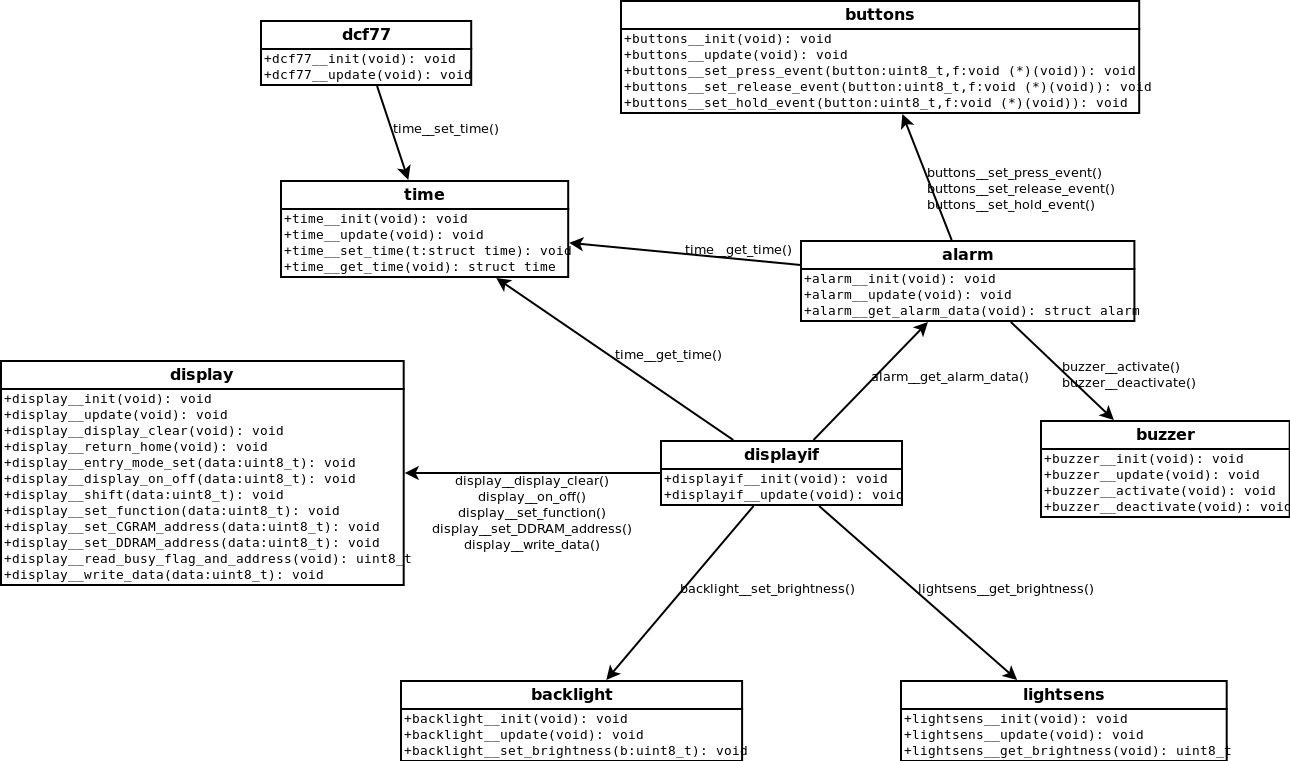
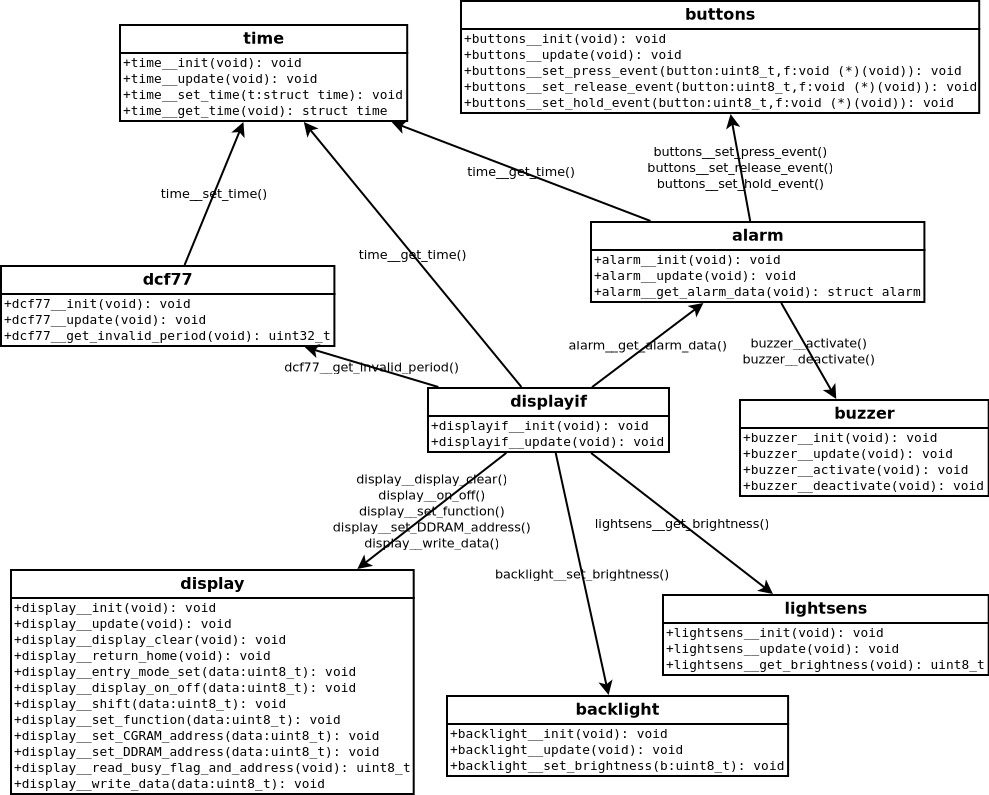
Improve error detection in DCF77 signal
Check range on all values
Check parity of date data
Check three consecutive minutes for changes and discard the data
if they differ in more than just the increment of the minute
Display "!" behind the time to indicate that time has not been set
by the dcf77 module for more than an hour

diff --git a/src/dcf77.c b/src/dcf77.c
@@ -27,13 +27,19 @@
 
 static uint8_t data[8];
 static uint8_t bit_count;
+static struct time time_buffer[3];
+static uint8_t time_index;
+static uint32_t invalid_period;
 
 static void process_data(void);
 static uint8_t check_even_parity(uint8_t i);
+static void check_time_buffer(void);
+static bool compare_time(struct time * time1, struct time * time2);
 
 void dcf77__init(void)
 {
     DDR(DCF77_PORT) &= ~(1 << DCF77_PIN);
+    invalid_period = UINT32_MAX;
 }
 
 void dcf77__update(void)
@@ -46,13 +52,15 @@ void dcf77__update(void)
 
     if (state_now != state_prev)
     {
-        if (state_now == 0 && cycle_counter > 6 && cycle_counter < 14)
+        if (state_now == 0 && bit_count < 64 &&
+            cycle_counter > 6 && cycle_counter < 14)
         {
             /* logical 0 */
             data[bit_count / 8] &= ~(1 << (bit_count % 8));
             bit_count++;
         }
-        if (state_now == 0 && cycle_counter > 16 && cycle_counter < 24)
+        if (state_now == 0 && bit_count < 64 &&
+            cycle_counter > 16 && cycle_counter < 24)
         {
             /* logical 1 */
             data[bit_count / 8] |= (1 << (bit_count % 8));
@@ -68,6 +76,16 @@ void dcf77__update(void)
         cycle_counter = 0;
         state_prev = state_now;
     }
+
+    if (invalid_period < UINT32_MAX)
+    {
+        invalid_period++;
+    }
+}
+
+uint32_t dcf77__get_invalid_period(void)
+{
+    return invalid_period;
 }
 
 static void process_data(void)
@@ -101,44 +119,109 @@ static void process_data(void)
         valid = false;
     }
     
-    uint8_t temp;
-    
-    temp = data[2] >> 5;
-    temp |= data[3] << 3;
-    if (check_even_parity(temp))
+    uint8_t minute;
+    minute = data[2] >> 5;
+    minute |= data[3] << 3;
+    if (!check_even_parity(minute))
     {
-        time.minute = (temp & 0x0F) + ((temp >> 4) & 0x07) * 10;
+        valid = false;
+    }
+    minute = (minute & 0x0F) + ((minute >> 4) & 0x07) * 10;
+    if (minute < 60)
+    {
+        time.minute = minute;
+    }
+    else
+    {
+        valid = false;
     }
 
-    temp = data[3] >> 5;
-    temp |= data[4] << 3;
-    temp &= 0x7F;
-    if (check_even_parity(temp))
+    uint8_t hour;
+    hour = data[3] >> 5;
+    hour |= data[4] << 3;
+    hour &= 0x7F;
+    if (!check_even_parity(hour))
     {
-        time.hour = (temp & 0x0F) + ((temp >> 4) & 0x03) * 10;
+        valid = false;
+    }
+    hour = (hour & 0x0F) + ((hour >> 4) & 0x03) * 10;
+    if (hour < 24)
+    {
+        time.hour = hour;
+    }
+    else
+    {
+        valid = false;
     }
 
-    temp = data[4] >> 4;
-    temp |= data[5] << 4;
-    temp &= 0x3F;
-    time.day_of_month = (temp & 0x0F) + (temp >> 4) * 10;
+    uint8_t day_of_month;
+    day_of_month = data[4] >> 4;
+    day_of_month |= data[5] << 4;
+    day_of_month &= 0x3F;
+    day_of_month = (day_of_month & 0x0F) + (day_of_month >> 4) * 10;
+    if (day_of_month <= 31)
+    {
+        time.day_of_month = day_of_month;
+    }
+    else
+    {
+        valid = false;
+    }
 
-    temp = data[5] >> 2;
-    temp &= 0x07;
-    time.day_of_week = temp;
+    uint8_t day_of_week;
+    day_of_week = data[5] >> 2;
+    day_of_week &= 0x07;
+    if (day_of_week != 0)
+    {
+        time.day_of_week = day_of_week;
+    }
+    else
+    {
+        valid = false;
+    }
 
-    temp = data[5] >> 5;
-    temp |= data[6] << 3;
-    temp &= 0x1F;
-    time.month = (temp & 0x0F) + (temp >> 4) * 10;
+    uint8_t month;
+    month = data[5] >> 5;
+    month |= data[6] << 3;
+    month &= 0x1F;
+    month = (month & 0x0F) + (month >> 4) * 10;
+    if (month != 0 && month <= 12)
+    {
+        time.month = month;
+    }
+    else
+    {
+        valid = false;
+    }
 
-    temp = data[6] >> 2;
-    temp |= data[7] << 6;
-    time.year = (temp & 0x0F) + (temp >> 4) * 10;
+    uint8_t year;
+    year = data[6] >> 2;
+    year |= data[7] << 6;
+    year = (year & 0x0F) + (year >> 4) * 10;
+    if (year < 100)
+    {
+        time.year = year;
+    }
+    else
+    {
+        valid = false;
+    }
+
+    uint8_t date_data;
+    date_data = data[4] & 0xF0;
+    date_data ^= data[5];
+    date_data ^= data[6];
+    date_data ^= data[7] & 0x07;
+    if (!check_even_parity(date_data))
+    {
+        valid = false;
+    }
     
     if (valid)
     {
-        time__set_time(time);
+        time_buffer[time_index] = time;
+        time_index = (time_index + 1) % 3;
+        check_time_buffer();
     }
 }
 
@@ -149,4 +232,29 @@ static uint8_t check_even_parity(uint8_t i)
     i ^= i >> 2u;
     i ^= i >> 1u;
     return (~i) & 1u;
+}
+
+static void check_time_buffer(void)
+{
+    struct time * time1 = &time_buffer[time_index];
+    struct time * time2 = &time_buffer[(time_index + 1) % 3];
+    struct time * time3 = &time_buffer[(time_index + 2) % 3];
+    bool comp1 = compare_time(time1, time2);
+    bool comp2 = compare_time(time2, time3);
+    if (comp1 && comp2)
+    {
+        time__set_time(*time3);
+        invalid_period = 0;
+    }
+}
+
+static bool compare_time(struct time * time1, struct time * time2)
+{
+    return time1->tz == time2->tz &&
+           time1->minute + 1 == time2->minute &&
+           time1->hour == time2->hour &&
+           time1->day_of_month == time2->day_of_month &&
+           time1->day_of_week == time2->day_of_week &&
+           time1->month == time2->month &&
+           time1->year == time2->year;
 }

diff --git a/src/displayif.c b/src/displayif.c
@@ -20,6 +20,7 @@
 
 #include "alarm.h"
 #include "backlight.h"
+#include "dcf77.h"
 #include "display.h"
 #include "lightsens.h"
 #include "time.h"
@@ -42,12 +43,11 @@ void displayif__init(void)
 void displayif__update(void)
 {
     static uint8_t flash_count;
+    display__display_clear();
 
     struct time time = time__get_time();
-
     /* print the time */
     display__set_DDRAM_address(0x00);
-    display__display_clear();
     print_number(time.hour);
     display__write_data(':');
     print_number(time.minute);
@@ -65,7 +65,6 @@ void displayif__update(void)
     print_number(time.year);
 
     struct alarm alarm = alarm__get_alarm_data();
-
     /* print alarm data */
     display__set_DDRAM_address(0x0A);
     if (alarm.enabled)
@@ -94,6 +93,15 @@ void displayif__update(void)
     else
     {
         print_number(alarm.minute);
+    }
+
+    /* bad signal indicator */
+    /* if the dcf77 module did not receive a valid signal for over an hour
+     * show an indicator next to the time */
+    display__set_DDRAM_address(0x08);
+    if (dcf77__get_invalid_period() > 360000)
+    {
+        display__write_data('!');
     }
 
     /* brightness */

diff --git a/src/dcf77.h b/src/dcf77.h
@@ -18,7 +18,10 @@
 #ifndef __DCF77_H__
 #define __DCF77_H__
 
+#include <stdint.h>
+
 void dcf77__init(void);
 void dcf77__update(void);
+uint32_t dcf77__get_invalid_period(void);
 
 #endif
